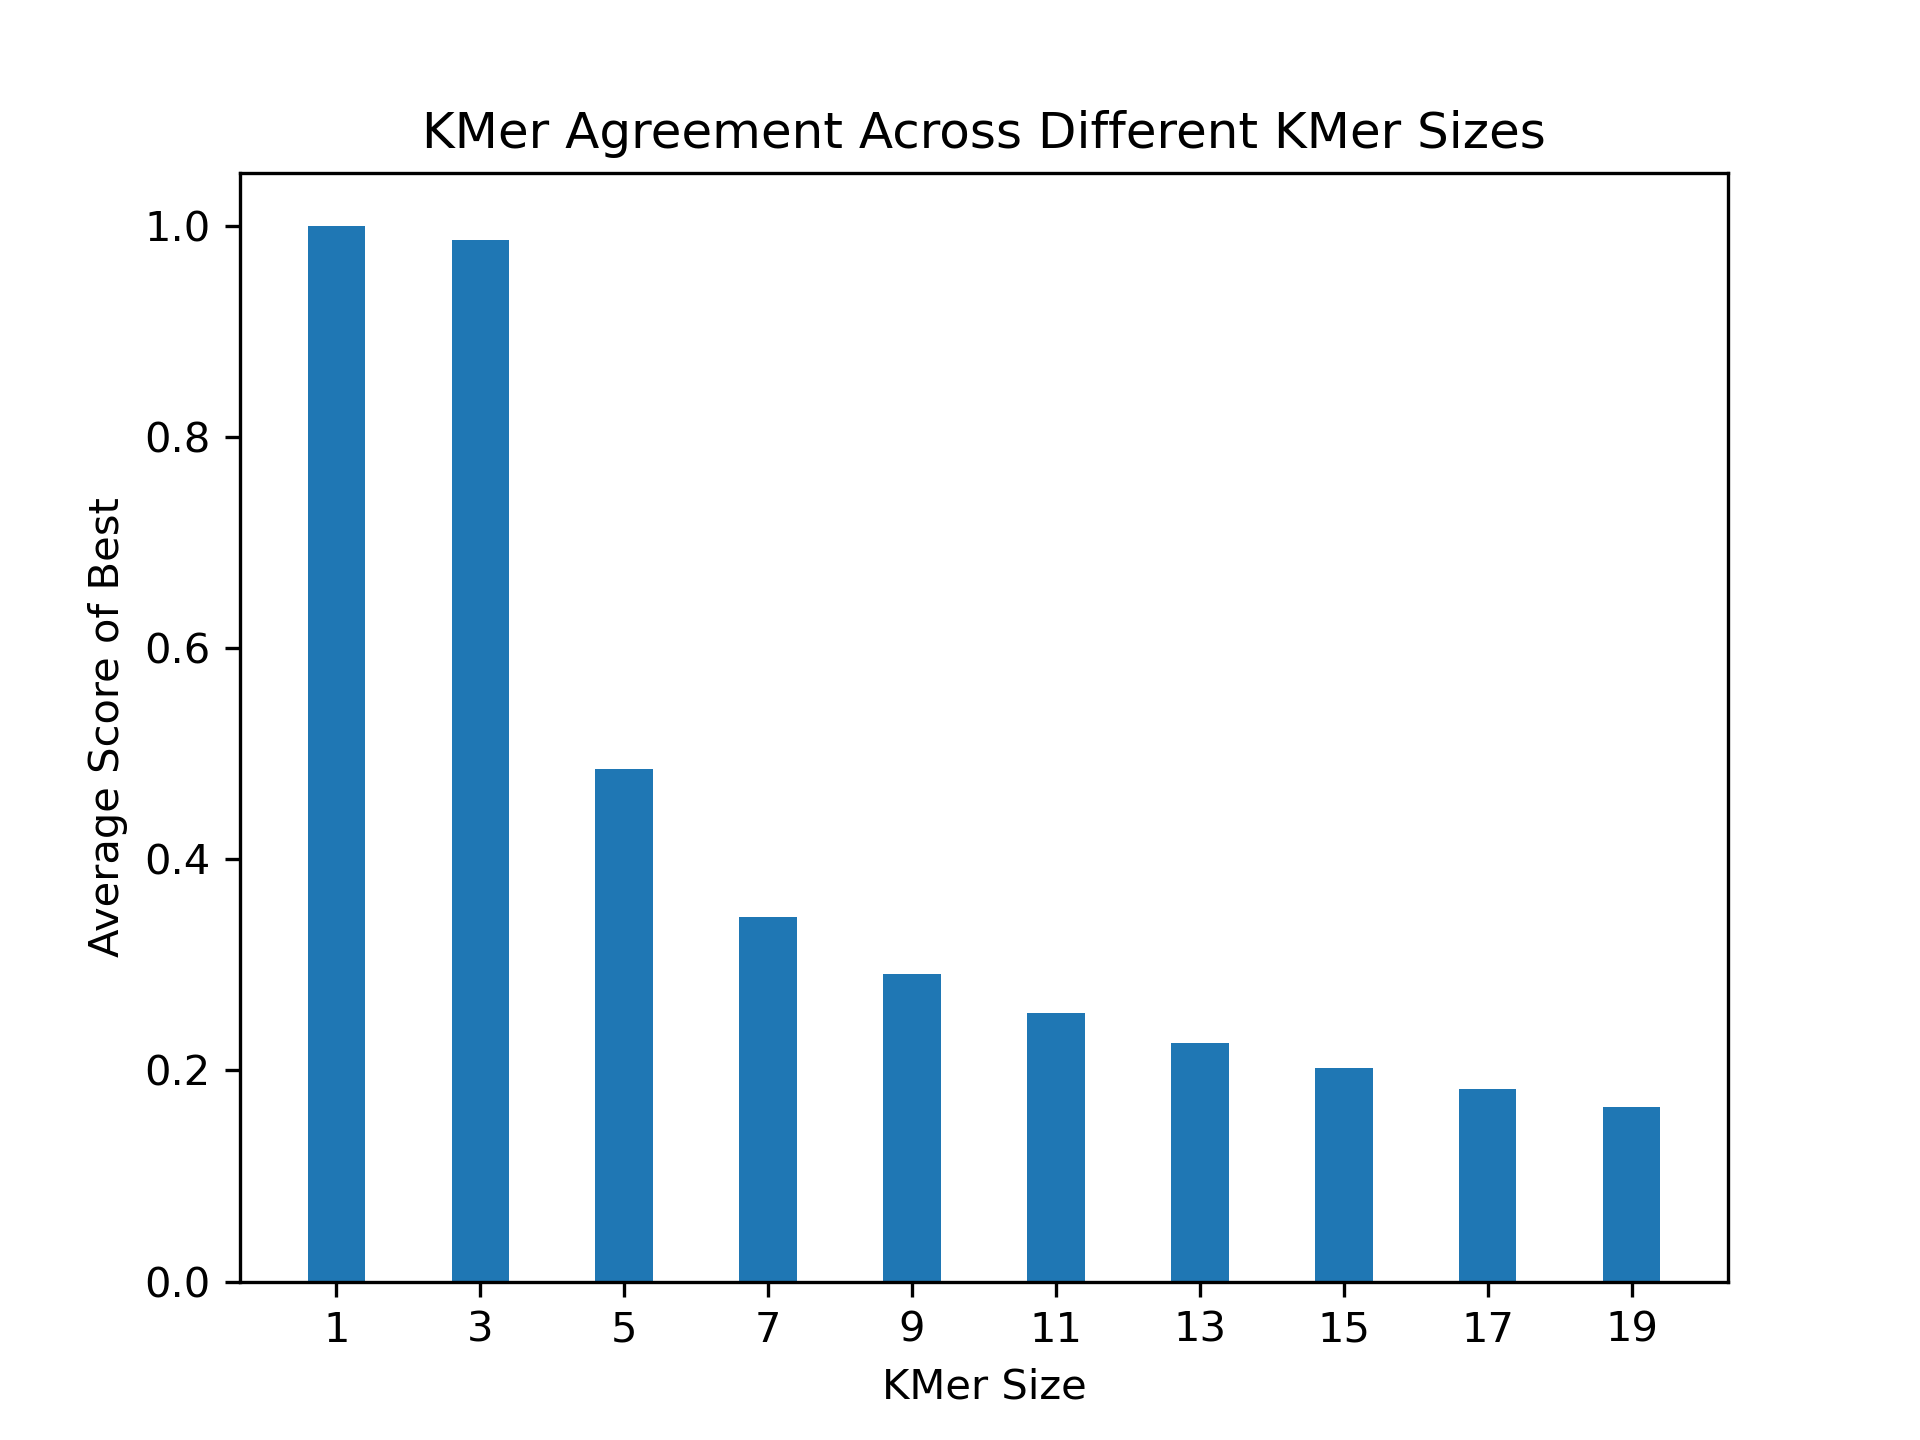
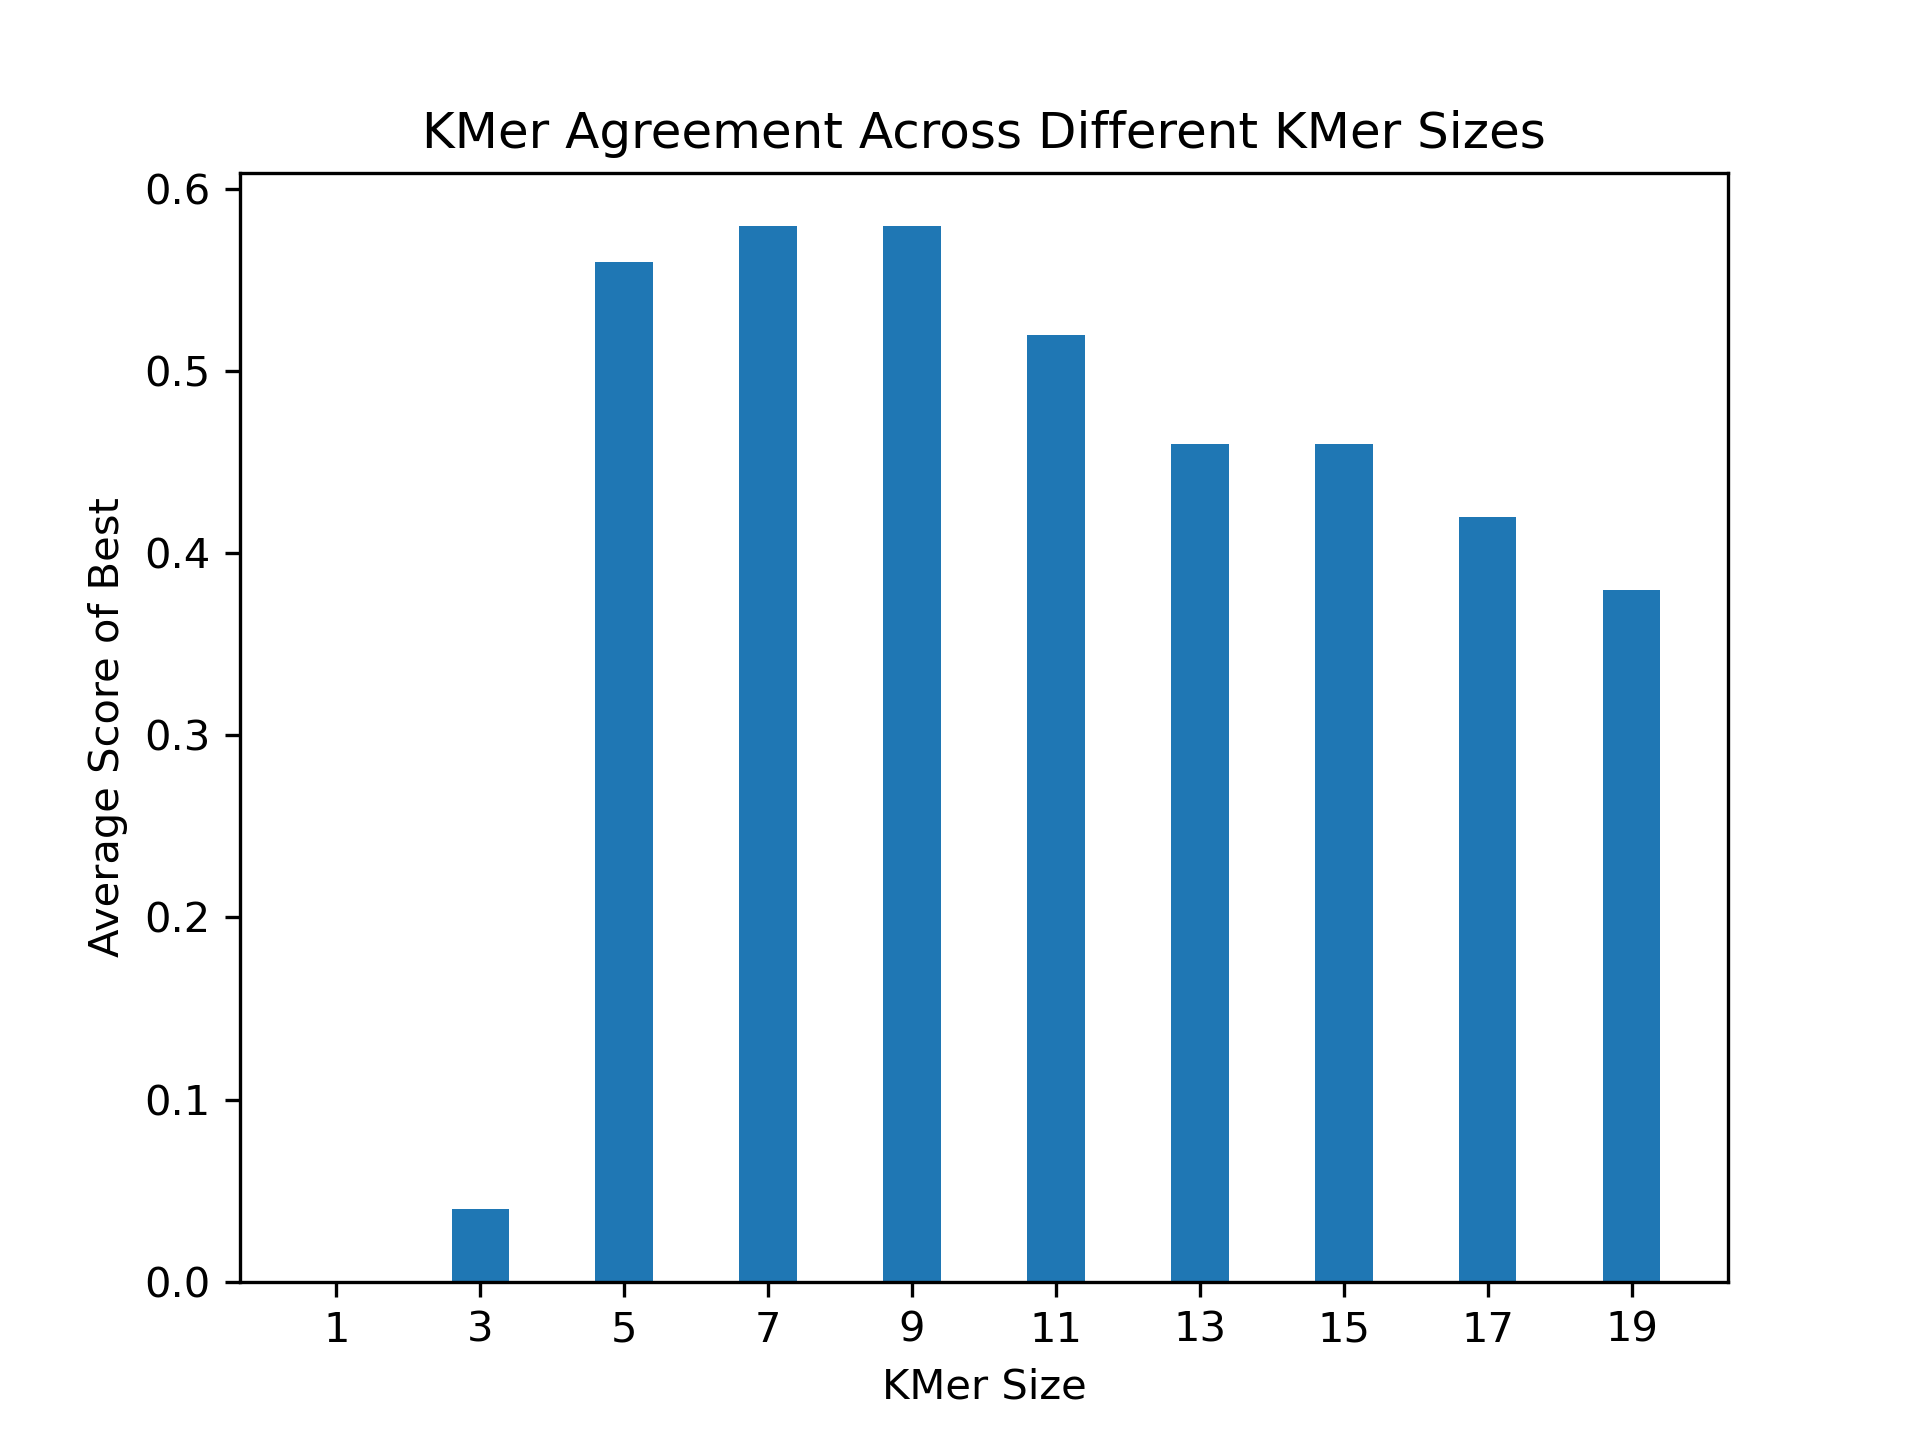
results from local alignment and agreement plots for all mutations

diff --git a/Microbiome Analysis Lab - Clean/microbiome_test.py b/Microbiome Analysis Lab - Clean/microbiome_test.py
@@ -76,8 +76,8 @@ def AlignmentMatch(sequence, library):
   count = 0
   for s, seq in library.items():
       count+=1
-      print("Checking alignment against sequence ID:", count)
-      score = alignment.local_align(sequence, seq, score=alignment.ScoreParam(10, -5, -7), print_output = False)
+      # print("Checking alignment against sequence ID:", count)
+      score = alignment.fast_local_align(sequence, seq, score=alignment.ScoreParam(10, -5, -7), print_output = False)
       if score[0] > best_score:
           best_score = score[0]
           best_match = s
@@ -127,14 +127,14 @@ def mutate_library(library, mutation_rate=0.01, max_length=250):
      mutated_library[seq_id] = mutated_seq
    return mutated_library
     
-def compute_kmer_agreement_list(db_data, query_data, kmer_sizes = [1,3,5,7,9,11,13,15,17,19]):
+def compute_kmer_agreement_list(db_data, query_data, kmer_sizes = [1,3,5,7,9,11,13,15,17,19], local_align_cache_file = "alignment_matches.npy"):
   kmer_agreement = []
   # store alignment matches and load if stored previously to save time
-  if os.path.exists("alignment_matches.npy"):
-    alignment_matches = numpy.load("alignment_matches.npy", allow_pickle=True).item()
+  if os.path.exists(local_align_cache_file):
+    alignment_matches = numpy.load(local_align_cache_file, allow_pickle=True).item()
   else:
     alignment_matches = compute_alignment_matches(db_data, query_data)
-    numpy.save("alignment_matches.npy", alignment_matches)
+    numpy.save(local_align_cache_file, alignment_matches)
   for kmer_size in kmer_sizes:
     print(kmer_size)
     kmer_matches = compute_kmer_matches(db_data, query_data, K=kmer_size)
@@ -187,9 +187,9 @@ if __name__ == "__main__":
   nanopore_db = mutate_library(db_data, mutation_rate=0.1, max_length=10000)
   nanopore_query = mutate_library(query_data, mutation_rate=0.1, max_length=10000)
   print("Computing kmer agreement...")
-  plot_kmer_agreement(db_data, query_data, filename="kmer_agreement.png")
-  # plot_kmer_agreement(illumina_db, illumina_query, filename="illumina_kmer_agreement.png")
-  # plot_kmer_agreement(nanopore_db, nanopore_query, filename="nanopore_kmer_agreement.png")
+  # plot_kmer_agreement(db_data, query_data, filename="kmer_agreement.png", local_align_cache_file="full_alignment_matches.npy")
+  # plot_kmer_agreement(illumina_db, illumina_query, filename="illumina_kmer_agreement.png", local_align_cache_file="illumina_alignment_matches.npy")
+  plot_kmer_agreement(nanopore_db, nanopore_query, filename="nanopore_kmer_agreement.png", local_align_cache_file="nanopore_alignment_matches.npy")
   
   
      

diff --git a/Microbiome Analysis Lab - Clean/alignment.py b/Microbiome Analysis Lab - Clean/alignment.py
@@ -76,6 +76,11 @@ def print_matrix(x, y, A):
         print()
 
 
+def fast_local_align(x, y, score=ScoreParam(10, -5, -7), print_output = False):
+    # use pyalign
+    import pyalign
+
+    return pyalign.local_alignment(x, y).score, None, None
 
 def local_align(x, y, score=ScoreParam(10, -5, -7), print_output = False):
     # Optimized local alignment: minimize attribute lookups, reuse rows, inline match logic
